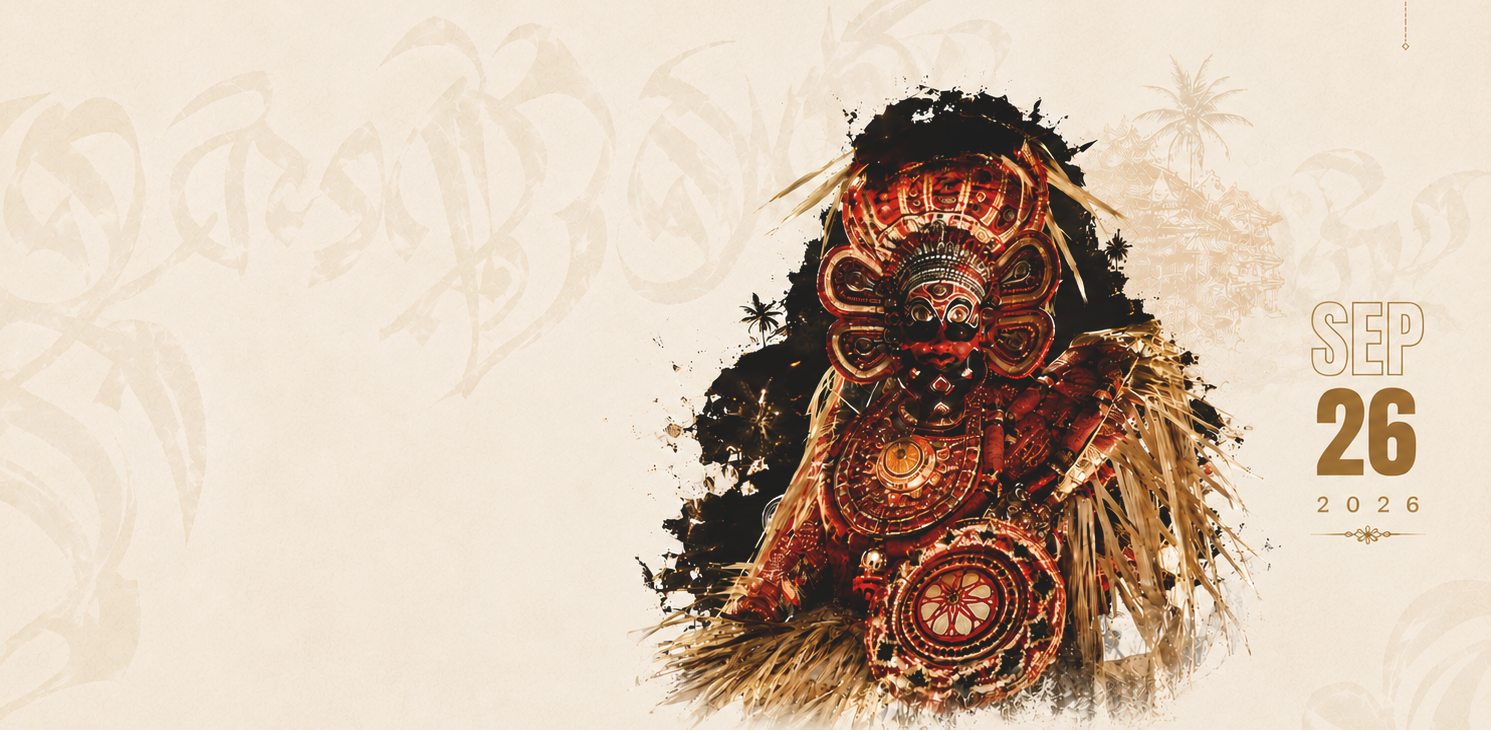
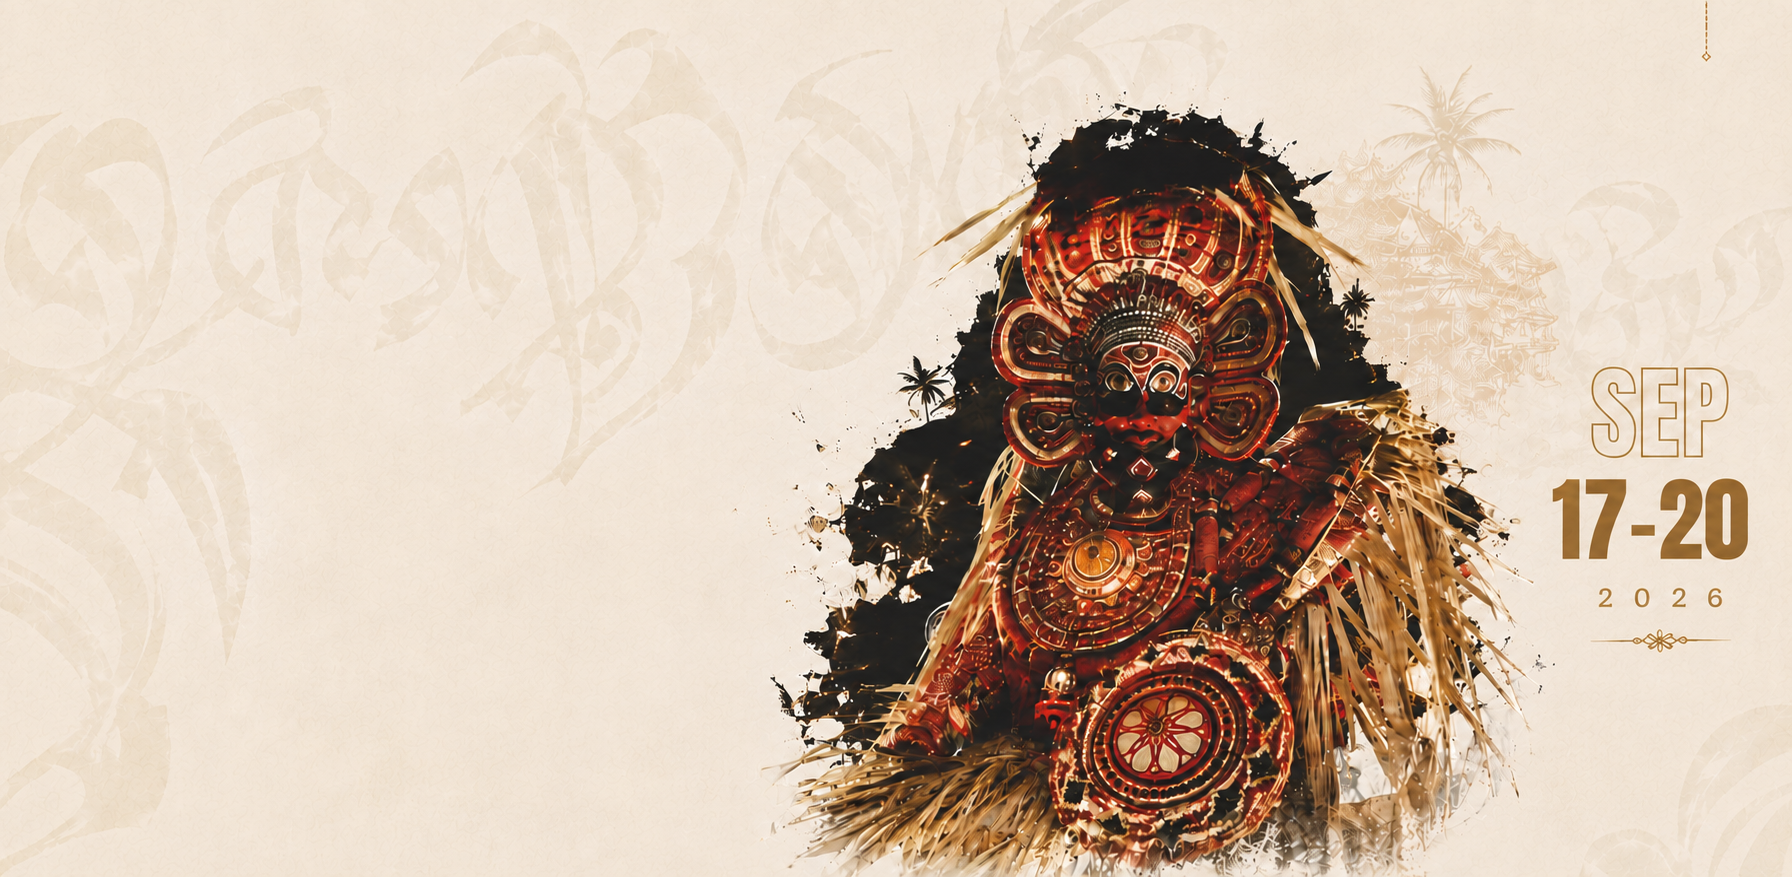
date change

Changed region(s): [[0.4319, 0.0904, 0.9873, 1.0]]

diff --git a/src/components/Countdown.jsx b/src/components/Countdown.jsx
@@ -4,8 +4,8 @@ import { VeenaPlayerSketch, TheyyamDancerSketch } from './Sketches';
 import { ScrollReveal } from './ScrollReveal';
 
 export const Countdown = ({ onOpenRegisterModal }) => {
-  // Target date: September 10, 2026, 09:00 AM (relative to our user date in 2026)
-  const targetDate = new Date('2026-09-10T09:00:00').getTime();
+  // Target date: September 17, 2026, 09:00 AM (relative to our user date in 2026)
+  const targetDate = new Date('2026-09-17T09:00:00').getTime();
   
   const [timeLeft, setTimeLeft] = useState({
     days: '00',
